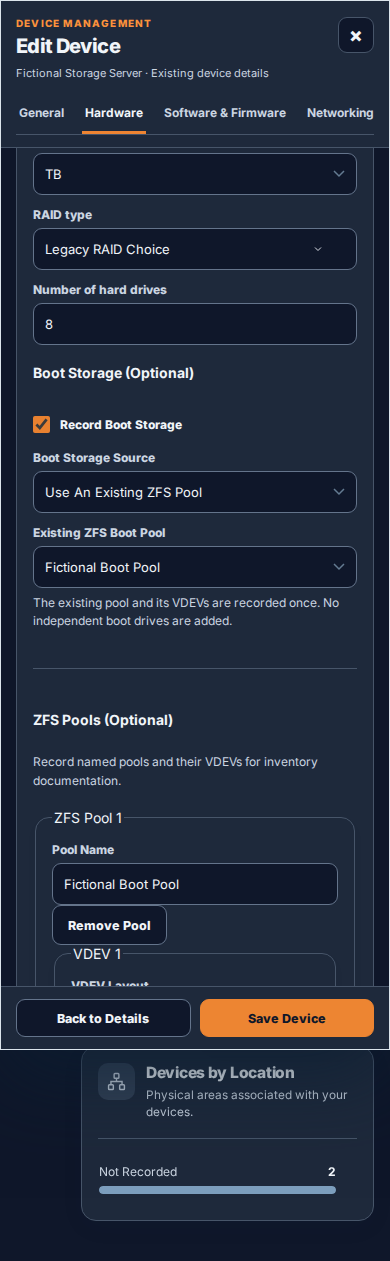
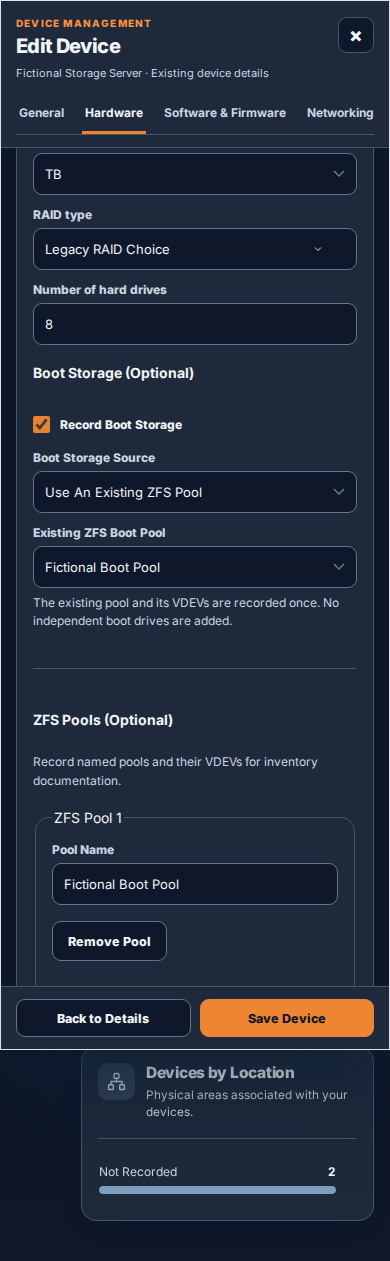
Refresh eight genuine ZFS spacing review screenshots and remove capture job
Preserve the original UI and all unrelated evidence; update capture hashes, source provenance and report. Delete the one-off read-only screenshot workflow.

Changed region(s): [[0.1231, 0.7113, 0.4308, 0.8041]]

diff --git a/docs/development-handovers/evidence/device-stock-registration/Report.md b/docs/development-handovers/evidence/device-stock-registration/Report.md
@@ -119,6 +119,27 @@ actual source for each refreshed screenshot. No image was artificially
 retouched, and no owner visual acceptance or merge is claimed.
 Final-head Actions must still be verified after this evidence commit.
 
+## ZFS Action Button Spacing — Owner-Requested Visual Correction
+
+Following the owner's visual review, the existing **Remove Pool**, **Remove VDEV**
+and **Add VDEV** buttons received **spacing-only** adjustments within their
+original nested Pool and VDEV fieldsets. Button wording, colour, functionality
+and the Device Hardware form layout were preserved.
+
+The browser test confirms the spacing between the Pool Name field and Remove
+Pool, the next VDEV fieldset, the Drive Type field and Remove VDEV, and the
+Add VDEV action below the VDEV border. The true
+[read-only Chromium capture](https://github.com/Caffoot/Caffoot-Lite/actions/runs/43833938108)
+passed on source commit `2c55c616d372da2305a2c8cf4f1e3fcd72a3af43` using fictional data.
+
+Eight genuine changed-screen PNGs were refreshed: the existing ZFS Boot Pool and
+VDEV views in desktop/mobile light/dark. The 28 unaffected PNGs remain
+unchanged. Their individual source and SHA-256 metadata is in the
+[capture manifest](capture-manifest.json). The temporary capture workflow was
+removed in the evidence commit. **Owner visual acceptance of this spacing
+correction is still outstanding.** No merge or release is claimed. Latest
+final-head Actions must be checked following the evidence update.
+
 ## Changed-Screen Gallery
 
 **36 genuine screenshots**, fictional data, desktop **1440 × 1050** and mobile
